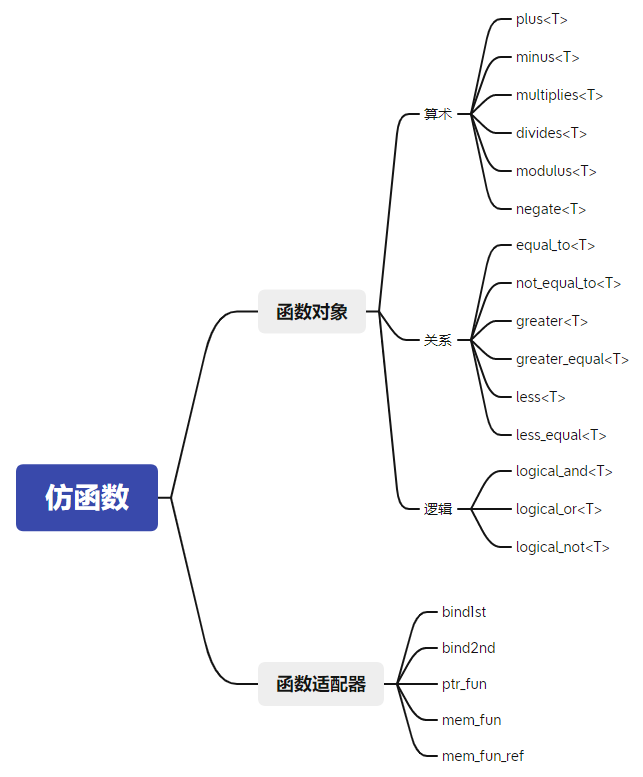
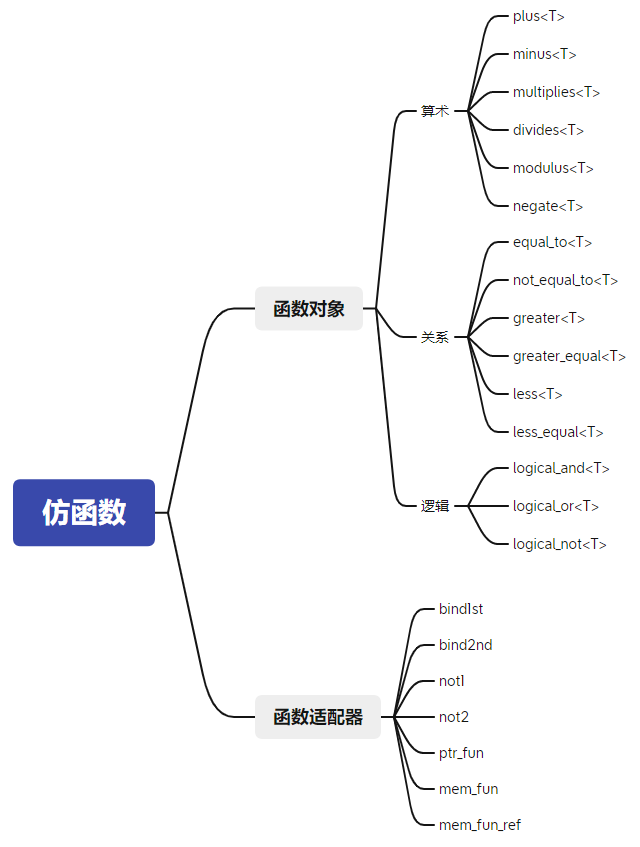
update

diff --git a/impl/cpp/cpp 基础/容器和算法.md b/impl/cpp/cpp 基础/容器和算法.md
@@ -13,6 +13,8 @@
 
 ![](./img/vector.png)
 
+
+
 ## std::array
 
 std::array 对象的大小是固定的，如果容器大小是固定的，那么可以优先考虑使用 std::array 容器。使用 std::array 很简单，只需指定其类型和大小即可：
@@ -170,6 +172,42 @@ s.emplace(4, 5);
 ## 小结
 
 ![](./img/associated_container.png)
+
+## 下标和 insert
+
+从效率方面的考虑，当向 map 中添加元素时，应该使用 insert，当需要修改一个元素的值的时候，需要使用 operator[]。如果使用 operator[] 添加元素：
+
+```
+class Widget {
+public:
+	Widget() { std::cout << "Widget::Widget" << std::endl; }
+	~Widget() { }
+	Widget(const Widget& w) { std::cout << "Widget::Widget(const Widget& w)" << std::endl; }
+	Widget& operator = (const Widget& w) { std::cout << "Widget::Widget& operator = (const Widget& w)" << std::endl; return *this; }
+};
+
+
+int main()
+{
+	std::map<int, Widget> m;
+	Widget w1;
+
+	//@ 如果m[0]没有对应的值，则会通过默认的构造函数生成一个widget对象
+	//@ 然后再用operator=将w的值赋给这个widget对象。
+	m[0] = w1;
+	//@ Widget构造函数被调用两次 
+
+	std::cout << "-------------------------------------------------------------------------------"<<std::endl;
+
+	Widget w2;
+	m.insert(std::map<int, Widget>::value_type(0, w2));  //@ 没有调用构造函数
+
+
+	return 0;
+}
+```
+
+
 
 # 容器适配器
 
@@ -494,6 +532,208 @@ pos = std::find_first_of(vec.begin(), vec.end(), arr.begin(), arr.end());
 
 ![](./img/functor.png)
 
-- mem_fun：针对指针容器中调用成员函数
-- mem_fun_ref：针对对象容器中调用成员函数
-- ptr_fun：针对一般函数的调用，（可有可无，在not1 not2等配接的时候就要加上ptr_fun）
+## 标准的函数配接器
+
+如果可配接对象的 operator() 接受一个参数则使用 not1；如果可配接对象的 operator() 接受两个参数则使用 not2。
+
+ bind1st 表示绑定第一个参数，bind2nd 表示绑定第二个参数。
+
+## 普通函数和类的成员函数配接
+
+- mem_fun：将成员函数转换为函数对象(指针版本)
+- mem_fun_ref：将成员函数转换为函数对象(引用版本)
+- ptr_fun：将函数指针转换为函数对象
+
+```
+class Widget
+{
+public:
+	void test() {}
+};
+
+void test(Widget& w) {}
+
+void test_fun()
+{
+	std::vector<Widget> vec;
+
+	std::for_each(vec.begin(),vec.end(),test);
+	std::for_each(vec.begin(), vec.end(), std::ptr_fun(test));
+	std::for_each(vec.begin(), vec.end(), std::mem_fun_ref(&Widget::test));
+
+	std::vector<Widget*> vec2;
+	std::for_each(vec2.begin(), vec2.end(), std::mem_fun(&Widget::test));
+}
+```
+
+C++11 中已不再推荐使用 ptr_fun、mem_fun、mem_fun_ref、bind1st、bind2nd  等相关函数。
+
+# STL 使用注意事项
+
+## 谨慎使用 `vector<bool>`
+
+`vector<bool>` 并不是一个真正的容器，也并不存储真正的 bool 类型，为了节省空间，它存储的是 bool 的紧凑表示，通常是一个 bit。由于指向单个 bit 的指针或引用都是不被允许的，`vector<bool>` 采用代理对象模拟指针指向单个 bit。 
+
+```
+std::vector<bool> v;
+
+bool* p = &v[0]; //@ 错误
+std::vector<bool>::reference * pr = &v[0]; //@ OK
+```
+
+可以考虑两种方式替代 `vector<bool>`：
+
+- `deque<bool>` 但是要注意 `deque` 的内存布局与数组并不一致
+- `bitse`，`bitset` 不是 STL 容器所以不支持迭代器，其大小在编译器就已经确定，bool 也是紧凑的存储在内存中
+
+##　调用 empty() 而不是检查 size() 是否为空
+
+empty() 对于所有标准容器都是常数时间，而对 list 操作，size() 耗费线性时间。
+
+## 包含裸指针的容器使用 remove 这一类算法时要特别小心
+
+```
+class Widget
+{
+public:
+	bool is_certificated() const { return true; }
+};
+
+
+int main()
+{
+	std::vector<Widget*> vec;
+	for (int i = 0; i < 3; i++)
+		vec.push_back(new Widget);
+
+	vec.erase(std::remove_if(vec.begin(), vec.end(), std::mem_fun(&Widget::is_certificated)),vec.end()); //@ 导致内存泄露
+
+	return 0;
+}
+```
+
+这种情况下应该在容器中存放智能指针。
+
+## 逐个字符的输入考虑使用 istreambuf_iterator
+
+常用的 istream_iterator 内部使用的 `operator >>` 实际上执行了格式化的输入，每一次的 `operator >>` 操作都有很多的附加操作：
+
+- 一个内部 sentry 对象的构造和析构(设置和清理行为的对象)
+- 检查可能影响行为的流标志
+- 检查可能发生的读取错误
+- 出现错误时检查流的异常屏蔽标志以决定是否抛出异常
+
+对于 istreambuf_iterator，它直接从流的缓冲区中读取下一个字符，不存在任何的格式化，所以效率相对 istream_iterator 要高得多。对于非格式化的输出，也可以考虑使用 ostreambuf_iterator 代替 ostream_iterator（损失了格式化输出的灵活性） 。
+
+```
+//@ 把一个文本文件的内容拷贝到一个string对象中
+std::ifstream inputFile("interestingData.txt");
+inputFile.unsetf(std::ios::skipws); //@ 禁止忽略inputFile中的空格
+std::string fileData((std::istream_iterator<char>(inputFile)), std::istream_iterator<char>()); 
+//@ 速度慢
+
+std::string fileData2((std::istreambuf_iterator<char>(inputFile)), std::istreambuf_iterator<char>()); //@ 速度快
+```
+
+## 使用函数对象而不是函数作为 STL 算法的参数
+
+在 C/C++ 中并不能真正地将一个函数作为参数传递给另一个函数。如果我们试图将一个函数作为参数进行传递，则编译器会隐式地将它转换成一个指向该函数的指针，并将该指针传递过去。函数指针参数抑制了内联机制。以函数对象作为 STL 算法的参数，这种做法提供了包括效率在内的多种优势。从代码被编译器接受的程度而言，它们更加稳定可靠。
+
+## vector 和 string 与旧的API
+
+将 vector 传递给接受数组指针的函数，要注意 vector 为空的情况。迭代器并不等价于指针，所以不要将迭代器传递给参数为指针的函数：
+
+```
+void foo(const int* ptr, size_t size);
+
+vector<int> v;
+...
+foo(v.empty() ? NULL : &v[0], v.size());
+```
+
+将 string 传递给接受字符串指针的函数。该方法还适用于 s 为空或包含 `\0`  的情况：
+
+```
+void foo(const char* ptr);
+
+string s;
+...
+foo(s.c_str());
+```
+
+C++ 标准要求 vector 中的元素存储在连续的内存中，就像数组一样：
+
+```
+void doSomething(const int* pInts, size_t numInts) {}
+
+std::vector<int> v{ 1, 2 };
+
+//@  doSomething(v.begin(), v.size()); //@  错误的用法
+
+doSomething(&v[0], v.size());
+doSomething(v.data(), v.size()); //@  C++11	
+doSomething(&*v.begin(), v.size()); //@  可以，但不易于理解
+```
+
+## 切勿直接修改 set 或 multiset 的键
+
+set、multiset、map、multimap 都会按照一定的顺序存储其中的元素，但如果修改了其中用于排序的键值，则将会破坏容器的有序性。
+
+对于 map 和 multimap 而言，其存储元素的类型为 `pair<const key, value>`，修改 map 中的 key 值将不能通过编译(除非使用 const_cast)。
+对于 set 和 multiset，其存储的键值并不是 const 的，在修改其中元素的时候，要小心不要修改到键值。
+
+```
+std::map<int, std::string> m{ { 0, "xxx" } };
+//@ m.begin()->first = 10; //@ build error, map的键不能修改
+
+std::multimap<int, std::string> mm{ { 1, "yyy" } };
+//@ mm.begin()->first = 10; //@ build error, multimap的键同样不能修改
+
+std::set<int> s{ 1, 2, 3 };
+//@ *(s.begin()) = 10; //@ build error, set的键不能修改
+const_cast<int&>(*s.begin()) = 10; // 强制类型转换
+```
+
+## 确保目标区间足够大
+
+无论何时，如果所使用的算法需要指定一个目标区间，那么必须确保目标区间足够大，或者确保它会随着算法的运行而增大。
+
+```
+int transmogrify(int x) { return (x + 1); }
+
+int test()
+{
+	std::vector<int> values{ 1, 2, 3 };
+	std::vector<int> results;
+	results.reserve(results.size() + values.size()); //@ 可避免内存的重新分配
+	//@std::transform(values.cbegin(), values.cend(), results.end(), transmogrify); //@ 错误，segmentation fault
+	std::transform(values.cbegin(), values.cend(), std::back_inserter(results), transmogrify); //@ 正确
+	//@ 在内部，std::back_inserter返回的迭代器将使得push_back被调用，所以back_inserter可适用于所有提供了push_back方法的容器
+
+	std::list<int> results2;
+	std::transform(values.cbegin(), values.cend(), std::front_inserter(results2), transmogrify);
+	//@ std::front_inserter在内部利用了push_front，所以front_inserter仅适用于那些提供了push_front成员函数的容器
+
+	return 0;
+}
+```
+
+## 容器的成员函数优先于同名的算法
+
+有些 STL 容器提供了一些与算法同名的成员函数。比如：
+
+- 关联容器提供了：count、find、lower_bound、upper_bound 和 equal_range
+
+- list 则提供了：remove、remove_if、unique、sort、merge 和 reverse
+
+大多数情况下，应该使用这些成员函数，而不是相应的 STL 算法。这里有两个理由：
+
+- 成员函数往往速度快
+- 成员函数通常与容器(特别是关联容器)结合得更加紧密，这是算法所不能比的。原因在于，算法和成员函数虽然有同样的名称，但是它们所做的事情往往不完全相同
+
+如果真的要从一个容器中删除对象的话，在调用了 remove、remove_if 或者 unique 算法之后，必须紧接着再调用 erase；而 list 的 remove、remove_if 和 unique 成员函数则实实在在地删除了元素，所以无需再调用 erase 了。
+
+在 sort 算法与 list 的 sort 函数之间有一个很重要的区别是，前者根本不能被应用到 list 容器上，这是因为，list 的迭代器是双向迭代器，而 sort 算法要求随机访问迭代器。
+
+在 merge 算法和 list 的 merge 函数之间也存在行为上的隔阂：merge 算法是不允许修改其源区间的，而 list::merge 则总是在修改它所操作的链表。
+
